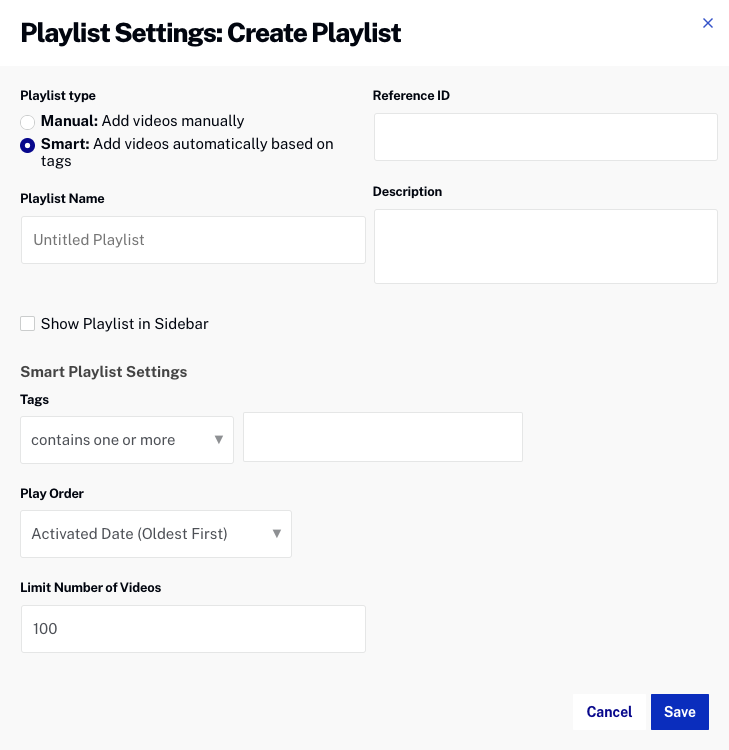
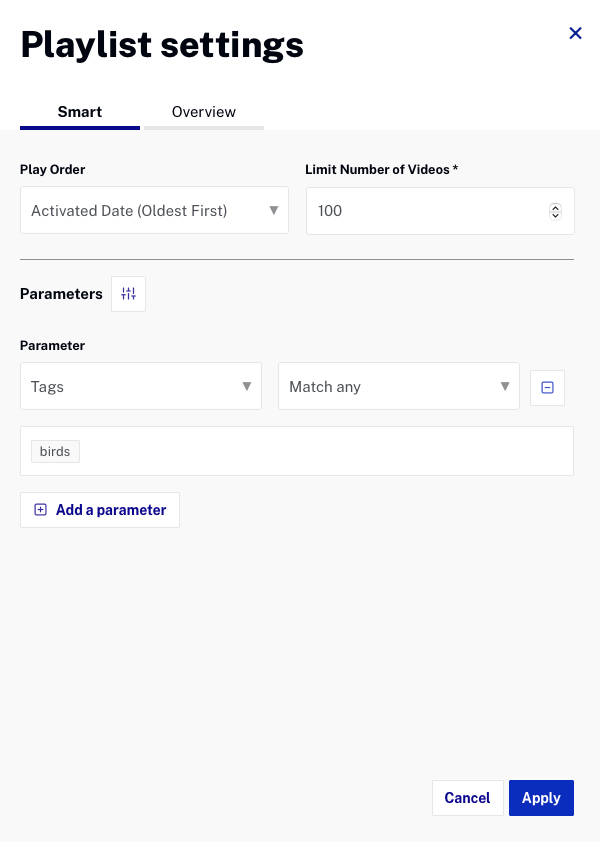
updates

diff --git a/basics/media/creating-smart-playlist.html b/basics/media/creating-smart-playlist.html
@@ -1,5 +1,5 @@
 ---
-title: 'How To: Create a Smart Playlist'
+title: 'How To: Create a Video Cloud Smart Playlist'
 parent: Media
 grandparent: Learn the Basics
 layout: howto
@@ -11,13 +11,18 @@ layout: howto
     <ol class="bcls-tasklist-restart">
       <li>Open the <strong>Media</strong> module.</li>
       <li>In the panel navigation, click the <strong>Create playlist</strong> link.</li>
-      <li>Set the <strong>Playlist type</strong> to <strong>Smart</strong>.</li>
-      <li>Enter a <strong>Playlist Name</strong>.</li>
-      <li>Check <strong>Show Playlist in Sidebar</strong> to have the playlist appear in the sidebar.</li>
-      <li>Set the <strong>Tags</strong> field to <strong>contains one or more</strong> and enter the  appropriate tag(s).
+      <li>Enter a <strong>Playlist name</strong>.</li>
+      <li>For the <strong>Playlist type</strong>, click on <strong>Video Cloud smart playlist</strong>.
+        <figure class="bcls-figure"><img class="bcls-image--no-border" alt="" src="/assets/images/basics/media/create-smart-playlist.png" /></figure>
+      </li>
+      <li>Click <strong>Create playlist</strong>. The panel will close and re-open.</li>
+      <li>Select a <strong>Parameter</strong> of <strong>Tags</strong>.</li>
+      <li>Set the operator to <strong>Match any</strong>.</li>
+      <li>Enter the   appropriate tag(s) and press enter.
         <figure class="bcls-figure"><img class="bcls-image--no-border" alt="" src="/assets/images/basics/media/smart-playlist.png" /></figure>
       </li>
-      <li>Click <strong>Save</strong>.</li>
+      <li>Click <strong>Apply</strong>.</li>
+      <li>Click <strong>X</strong> to close the panel.</li>
       <li>Click the<strong> </strong>playlist name just created in the panel navigation panel and confirm the correct videos have been added to the playlist.</li>
     </ol>
   </section>
@@ -25,7 +30,6 @@ layout: howto
     <h3>Related</h3>
     <ul>
       <li><a href="/basics/media/creating-manual-playlist.html">How To: Create a Manual Playlist</a></li>
-      
       <li><a href="/media/creating-and-managing-playlists.html" target="_blank">Creating and Managing Video Cloud Playlists</a></li>
     </ul>
   </section>

diff --git a/_site/basics/media/creating-smart-playlist.html b/_site/basics/media/creating-smart-playlist.html
@@ -7,7 +7,7 @@
   <meta name="viewport" content="width=device-width, initial-scale=1, shrink-to-fit=no">
   <meta name="description" content="">
   
-  <title>How To: Create a Smart Playlist</title>
+  <title>How To: Create a Video Cloud Smart Playlist</title>
   <link rel="apple-touch-icon" sizes="180x180" href="/apple-touch-icon.png">
   <link rel="icon" type="image/png" sizes="32x32" href="/favicon-32x32.png">
   <link rel="icon" type="image/png" sizes="16x16" href="/favicon-16x16.png">
@@ -142,7 +142,7 @@ function doGTranslate(lang_pair) {if(lang_pair.value)lang_pair=lang_pair.value;i
     <li class="breadcrumb-item"><a href="/basics/media/">Media</a></li>
     
     
-    <li class="breadcrumb-item active" aria-current="page">How To: Create a Smart Playlist</li>
+    <li class="breadcrumb-item active" aria-current="page">How To: Create a Video Cloud Smart Playlist</li>
     
   </ol>
 </nav>
@@ -1483,9 +1483,10 @@ function doGTranslate(lang_pair) {if(lang_pair.value)lang_pair=lang_pair.value;i
     <ol class="bcls-tasklist-restart">
       <li>Open the <strong>Media</strong> module.</li>
       <li>In the panel navigation, click the <strong>Create playlist</strong> link.</li>
-      <li>Set the <strong>Playlist type</strong> to <strong>Smart</strong>.</li>
-      <li>Enter a <strong>Playlist Name</strong>.</li>
-      <li>Check <strong>Show Playlist in Sidebar</strong> to have the playlist appear in the sidebar.</li>
+      <li>Enter a <strong>Playlist name</strong>.</li>
+      <li>For the <strong>Playlist type</strong>, click on <strong>Video Cloud smart playlist</strong>.
+                <figure class="bcls-figure"><img class="bcls-image--no-border" alt="" src="/assets/images/basics/media/create-smart-playlist.png" /></figure>
+        </li>
       <li>Set the <strong>Tags</strong> field to <strong>contains one or more</strong> and enter the  appropriate tag(s).
         <figure class="bcls-figure"><img class="bcls-image--no-border" alt="" src="/assets/images/basics/media/smart-playlist.png" /></figure>
       </li>

diff --git a/_site/basics/media/index.html b/_site/basics/media/index.html
@@ -1397,10 +1397,10 @@ function doGTranslate(lang_pair) {if(lang_pair.value)lang_pair=lang_pair.value;i
 <li><a href="activating-and-deactivating-video.html">Activating and Deactivating Videos</a></li>
 <li><a href="adding-episode-season.html">Adding an Episode to a Season</a></li>
 <li><a href="capturing-video-poster-thumbnail-images.html">Capturing Video Poster and Thumbnail Images</a></li>
-<li><a href="creating-manual-playlist.html">Creating a Manual Playlist</a></li>
+<li><a href="creating-manual-playlist.html">Creating a Video Cloud Manual Playlist</a></li>
 <li><a href="creating-season.html">Creating a Season</a></li>
 <li><a href="creating-series.html">Creating a Series</a></li>
-<li><a href="creating-smart-playlist.html">Creating a Smart Playlist</a></li>
+<li><a href="creating-smart-playlist.html">Creating a Video Cloud Smart Playlist</a></li>
 <li><a href="editing-basic-video-details.html">Editing Basic Video Details</a></li>
 <li><a href="editing-video-details-multiple-videos.html">Editing Video Details for Multiple Videos</a></li>
 <li><a href="organizing-videos-using-folders.html">Organizing Videos Using Folders</a></li>

diff --git a/basics/media/index.html b/basics/media/index.html
@@ -12,10 +12,10 @@ grandparent: Learn the Basics
 <li><a href="activating-and-deactivating-video.html">Activating and Deactivating Videos</a></li>
 <li><a href="adding-episode-season.html">Adding an Episode to a Season</a></li>
 <li><a href="capturing-video-poster-thumbnail-images.html">Capturing Video Poster and Thumbnail Images</a></li>
-<li><a href="creating-manual-playlist.html">Creating a Manual Playlist</a></li>
+<li><a href="creating-manual-playlist.html">Creating a Video Cloud Manual Playlist</a></li>
 <li><a href="creating-season.html">Creating a Season</a></li>
 <li><a href="creating-series.html">Creating a Series</a></li>
-<li><a href="creating-smart-playlist.html">Creating a Smart Playlist</a></li>
+<li><a href="creating-smart-playlist.html">Creating a Video Cloud Smart Playlist</a></li>
 <li><a href="editing-basic-video-details.html">Editing Basic Video Details</a></li>
 <li><a href="editing-video-details-multiple-videos.html">Editing Video Details for Multiple Videos</a></li>
 <li><a href="organizing-videos-using-folders.html">Organizing Videos Using Folders</a></li>
